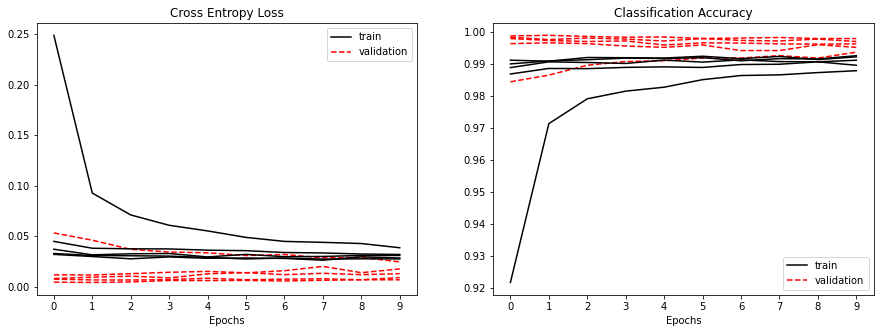
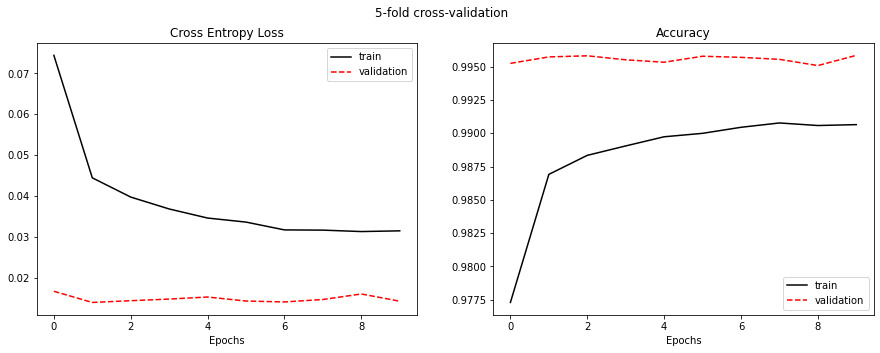
new perf plot

diff --git a/templates/index.html b/templates/index.html
@@ -71,7 +71,7 @@
             <div class='card card-body text-justify'>
               The model is a 2xCNN layers with the following architecture:
               <img class='w-100' src="static/images/nn.png">
-              <p> Or, if you prefer, here are the layers as declared in <a href='https://keras.io/' >Keras</a>: </p>
+              <p> Or, if you prefer, here is its definition in <a href='https://keras.io/' >Keras</a>: </p>
               <div class'card'>
                 <div class='card-body text-left code'>
                   <p class='mb-0'> def define_model(): </p>
@@ -96,10 +96,9 @@
                 </div>
               </div>
               <br>
-              In cross-validation, during training, the model reached around 99%
-              accuracy and it does not seem to overfit:
+              <p> In cross-validation the model reached <span class='bold'> 99.5% </span>
+              accuracy and it does not seem to overfit: </p>
               <img class='py-3' src="static/images/perf.png">
-              <p> The test accuracy is <span class='bold'> 99.3% </span> </p>
             </div>
           </div>
         </div>
@@ -119,17 +118,14 @@
                 dataset on which the model is trained: </p>
               <img class='py-1' src="static/images/preprocessing.png">
               <p class='pb-0'> Notice that there is no magnification of the image and therefore,
-                if you write a small digit the model will probabily fail because
+                if you write a small digit the model will probabily misclassify because
                 of the padding.
-                I didn't find interesting to implement magnification because: </p>
-              <p class='tab'>1. It's quite hard to accomplish without using advanced
-                image processing techniques and tools. </p>
-              <p class='tab'>2. In a real scenario the problem should be approached
+              <p>  I didn't find interesting to implement magnification because
+                in a real scenario the problem should be approached
                 the other way around by training the model using images with different
-                sizes and offsets. </p>
-              <br>
+                sizes and offsets, but it is out of scope for this project. </p>
               <p> The app is deployed on <a href='https://cloud.google.com/appengine'>Google App Engine</a>
-                but you can download it from my github and run it on localhost:8080 following
+                but you can download it from my github and run it on localhost following
                 the instructions in the <a href='https://github.com/FrancescoTamborra/Draw_a_digit'>README</a> </p>
             </div>
           </div>

diff --git a/static/js/script.js b/static/js/script.js
@@ -11,6 +11,7 @@ window.onload = ()=>{
   ctx.fillRect(0, 0, canvas.width, canvas.height);
   ctx.lineWidth = 8;
   ctx.lineCap = "round";
+  console.log('Hello geek :)')
 };
 
 // Mouse events

diff --git a/app.py b/app.py
@@ -28,7 +28,7 @@ def center_image(img):
     for y in range(h):
         offset_y = y * w
         for x in range(w):
-            if imgpix[offset_y + x] > 0:  # exclude the singularity
+            if imgpix[offset_y + x] > 0:  # exclude the origin
                 left = min(left, x)
                 top = min(top, y)
                 right = max(right, x)
@@ -73,5 +73,5 @@ def predict_digit():
 
 if __name__ == '__main__':
     print(("* Loading model, please wait..."))
-    model_loader()  # model should always be load here, once
+    model_loader()  # model should always be loaded here, once
     app.run(host='127.0.0.1', port=8080, debug=True)
